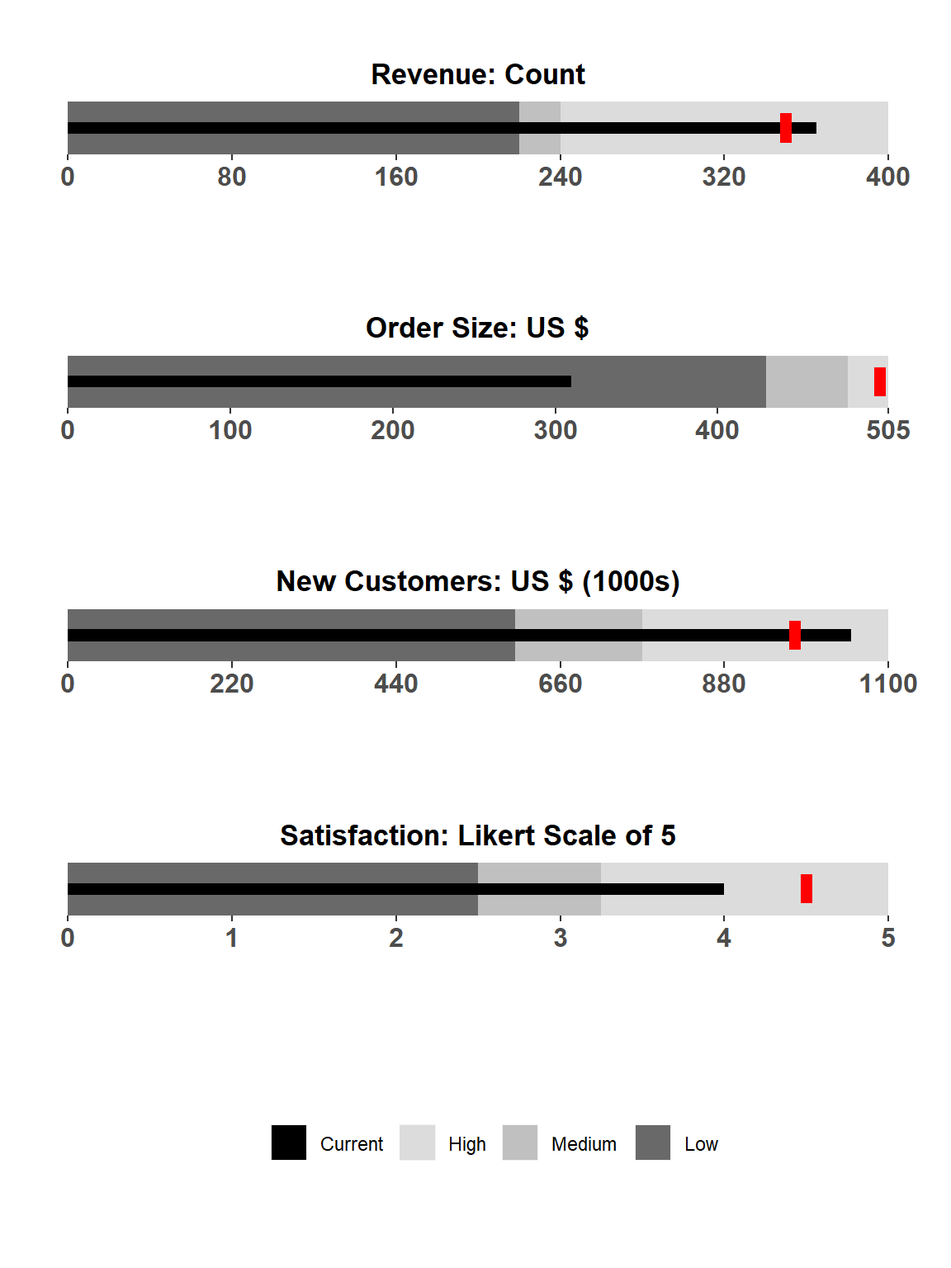
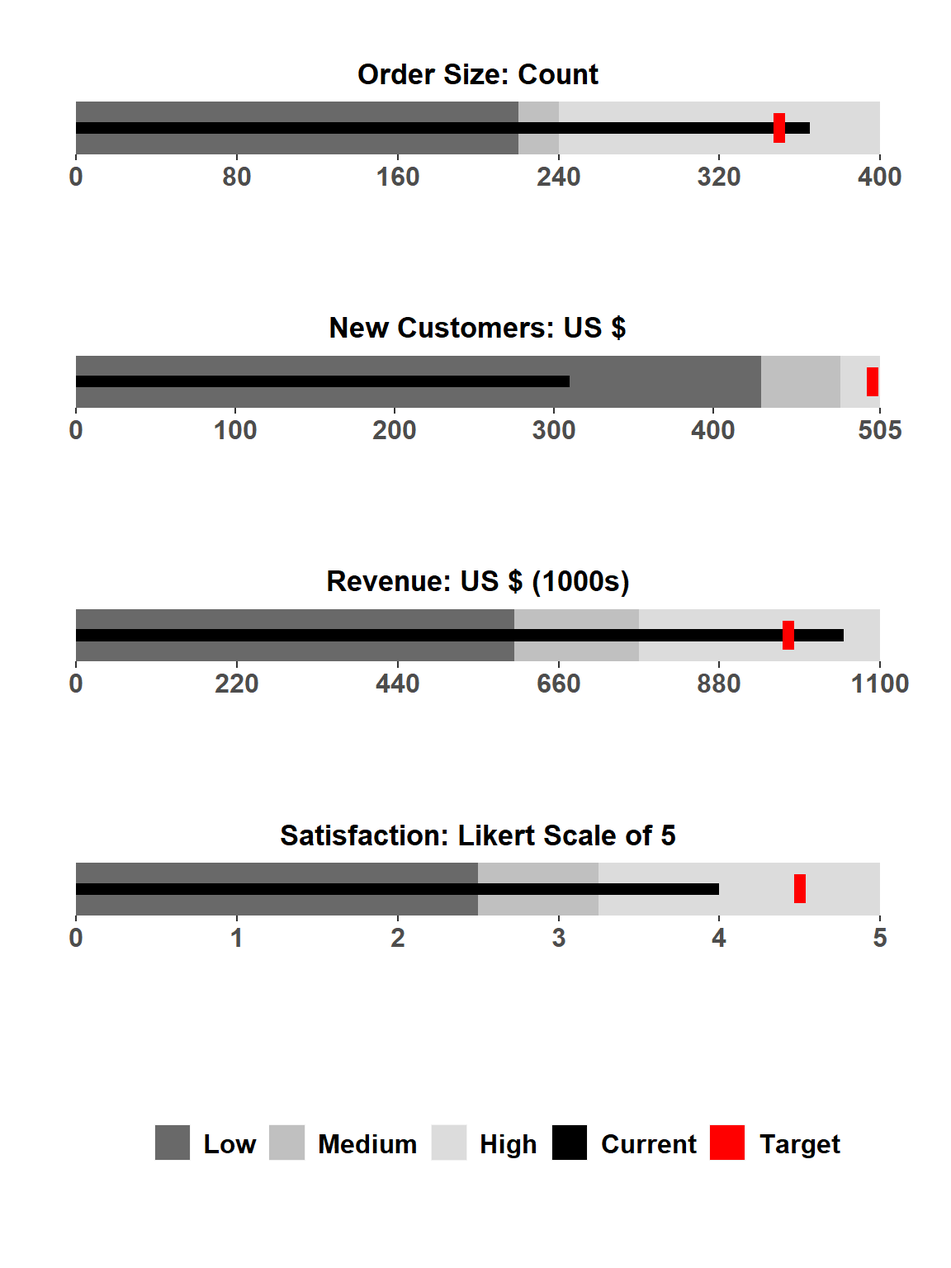
add legend entry for target, fix regular bc data, references #24

diff --git a/docs/articles/intro-arguments.html b/docs/articles/intro-arguments.html
@@ -106,7 +106,7 @@
 <div id="different-calendars" class="section level2">
 <h2 class="hasAnchor">
 <a href="#different-calendars" class="anchor"></a>Different calendars</h2>
-<p>The vertical line showing <code>Today</code> can be customized depending on whether you are measuring by a fiscal year, a calendar year, or a custom date. <code>Today</code> shown on a Fiscal Year calendar (considering that today’s physical date is 2019-10-26.) is show below:</p>
+<p>The vertical line showing <code>Today</code> can be customized depending on whether you are measuring by a fiscal year, a calendar year, or a custom date. <code>Today</code> shown on a Fiscal Year calendar (considering that today’s physical date is 2019-10-31.) is show below:</p>
 <div class="sourceCode" id="cb2"><pre class="sourceCode r"><code class="sourceCode r"><a class="sourceLine" id="cb2-1" title="1"><span class="kw"><a href="../reference/bullet_chart_symbols.html">bullet_chart_symbols</a></span>(<span class="dt">file_name =</span> <span class="kw"><a href="../reference/read_example.html">read_example</a></span>(<span class="st">"Indicators_Targets_ext.xlsx"</span>), </a>
 <a class="sourceLine" id="cb2-2" title="2">                     <span class="dt">cal_type =</span> <span class="st">"fis"</span>)</a></code></pre></div>
 <p><img src="intro-arguments_files/figure-html/cal-type-1.png" width="576"></p>
@@ -153,8 +153,8 @@
 <div class="sourceCode" id="cb8"><pre class="sourceCode r"><code class="sourceCode r"><a class="sourceLine" id="cb8-1" title="1"><span class="kw"><a href="../reference/bullet_chart_symbols.html">bullet_chart_symbols</a></span>(<span class="dt">file_name =</span> <span class="kw"><a href="../reference/read_example.html">read_example</a></span>(<span class="st">"Indicators_Targets.xlsx"</span>), </a>
 <a class="sourceLine" id="cb8-2" title="2">                     <span class="dt">legend =</span> <span class="ot">TRUE</span>,</a>
 <a class="sourceLine" id="cb8-3" title="3">                     <span class="dt">chart_type =</span> <span class="st">"interactive"</span>)</a></code></pre></div>
-<div id="htmlwidget-33c41a0cc24e038bd974" style="width:700px;height:432.632880098888px;" class="girafe html-widget"></div>
-<script type="application/json" data-for="htmlwidget-33c41a0cc24e038bd974">{"x":{"html":"<?xml version=\"1.0\" encoding=\"UTF-8\"?>\n<svg xmlns=\"http://www.w3.org/2000/svg\" xmlns:xlink=\"http://www.w3.org/1999/xlink\" id=\"svg_bc03bac1a9b20191026233830\" viewBox=\"0 0 864.00 360.00\">\n  <g>\n    <defs>\n      <clipPath id=\"cl_idbc0624256f20191026233830_1679565025\">\n        <rect x=\"0.00\" y=\"360.00\" width=\"0.00\" height=\"504.00\"/>\n      <\/clipPath>\n    <\/defs>\n    <rect x=\"0.00\" y=\"0.00\" width=\"864.00\" height=\"360.00\" id=\"1\" clip-path=\"url(#cl_idbc0624256f20191026233830_1679565025)\" fill=\"#FFFFFF\" fill-opacity=\"1\" stroke-width=\"0.75\" stroke=\"#FFFFFF\" stroke-opacity=\"1\" stroke-linejoin=\"round\" stroke-linecap=\"round\"/>\n    <defs>\n      <clipPath id=\"cl_idbc0624256f20191026233830_1679565026\">\n        <rect x=\"0.00\" y=\"0.00\" width=\"864.00\" height=\"360.00\"/>\n      <\/clipPath>\n    <\/defs>\n    <defs>\n      <clipPath id=\"cl_idbc0624256f20191026233830_1679565027\">\n        <rect x=\"69.46\" y=\"26.71\" width=\"789.06\" height=\"190.70\"/>\n      <\/clipPath>\n    <\/defs>\n    <polyline points=\"193.24,217.40 193.24,26.71\" id=\"2\" clip-path=\"url(#cl_svg_bc03bac1a9b20191026233830_1679565027)\" fill=\"none\" stroke-width=\"0.533489\" stroke=\"#EBEBEB\" stroke-opacity=\"1\" stroke-linejoin=\"round\" stroke-linecap=\"butt\"/>\n    <polyline points=\"369.05,217.40 369.05,26.71\" id=\"3\" clip-path=\"url(#cl_svg_bc03bac1a9b20191026233830_1679565027)\" fill=\"none\" stroke-width=\"0.533489\" stroke=\"#EBEBEB\" stroke-opacity=\"1\" stroke-linejoin=\"round\" stroke-linecap=\"butt\"/>\n    <polyline points=\"544.87,217.40 544.87,26.71\" id=\"4\" clip-path=\"url(#cl_svg_bc03bac1a9b20191026233830_1679565027)\" fill=\"none\" stroke-width=\"0.533489\" stroke=\"#EBEBEB\" stroke-opacity=\"1\" stroke-linejoin=\"round\" stroke-linecap=\"butt\"/>\n    <polyline points=\"720.68,217.40 720.68,26.71\" id=\"5\" clip-path=\"url(#cl_svg_bc03bac1a9b20191026233830_1679565027)\" fill=\"none\" stroke-width=\"0.533489\" stroke=\"#EBEBEB\" stroke-opacity=\"1\" stroke-linejoin=\"round\" stroke-linecap=\"butt\"/>\n    <polyline points=\"69.46,191.10 858.52,191.10\" id=\"6\" clip-path=\"url(#cl_svg_bc03bac1a9b20191026233830_1679565027)\" fill=\"none\" stroke-width=\"1.06698\" stroke=\"#EBEBEB\" stroke-opacity=\"1\" stroke-linejoin=\"round\" stroke-linecap=\"butt\"/>\n    <polyline points=\"69.46,164.80 858.52,164.80\" id=\"7\" clip-path=\"url(#cl_svg_bc03bac1a9b20191026233830_1679565027)\" fill=\"none\" stroke-width=\"1.06698\" stroke=\"#EBEBEB\" stroke-opacity=\"1\" stroke-linejoin=\"round\" stroke-linecap=\"butt\"/>\n    <polyline points=\"69.46,138.50 858.52,138.50\" id=\"8\" clip-path=\"url(#cl_svg_bc03bac1a9b20191026233830_1679565027)\" fill=\"none\" stroke-width=\"1.06698\" stroke=\"#EBEBEB\" stroke-opacity=\"1\" stroke-linejoin=\"round\" stroke-linecap=\"butt\"/>\n    <polyline points=\"69.46,112.19 858.52,112.19\" id=\"9\" clip-path=\"url(#cl_svg_bc03bac1a9b20191026233830_1679565027)\" fill=\"none\" stroke-width=\"1.06698\" stroke=\"#EBEBEB\" stroke-opacity=\"1\" stroke-linejoin=\"round\" stroke-linecap=\"butt\"/>\n    <polyline points=\"69.46,85.89 858.52,85.89\" id=\"10\" clip-path=\"url(#cl_svg_bc03bac1a9b20191026233830_1679565027)\" fill=\"none\" stroke-width=\"1.06698\" stroke=\"#EBEBEB\" stroke-opacity=\"1\" stroke-linejoin=\"round\" stroke-linecap=\"butt\"/>\n    <polyline points=\"69.46,59.59 858.52,59.59\" id=\"11\" clip-path=\"url(#cl_svg_bc03bac1a9b20191026233830_1679565027)\" fill=\"none\" stroke-width=\"1.06698\" stroke=\"#EBEBEB\" stroke-opacity=\"1\" stroke-linejoin=\"round\" stroke-linecap=\"butt\"/>\n    <polyline points=\"105.33,217.40 105.33,26.71\" id=\"12\" clip-path=\"url(#cl_svg_bc03bac1a9b20191026233830_1679565027)\" fill=\"none\" stroke-width=\"1.06698\" stroke=\"#EBEBEB\" stroke-opacity=\"1\" stroke-linejoin=\"round\" stroke-linecap=\"butt\"/>\n    <polyline points=\"281.15,217.40 281.15,26.71\" id=\"13\" clip-path=\"url(#cl_svg_bc03bac1a9b20191026233830_1679565027)\" fill=\"none\" stroke-width=\"1.06698\" stroke=\"#EBEBEB\" stroke-opacity=\"1\" stroke-linejoin=\"round\" stroke-linecap=\"butt\"/>\n    <polyline points=\"456.96,217.40 456.96,26.71\" id=\"14\" clip-path=\"url(#cl_svg_bc03bac1a9b20191026233830_1679565027)\" fill=\"none\" stroke-width=\"1.06698\" stroke=\"#EBEBEB\" stroke-opacity=\"1\" stroke-linejoin=\"round\" stroke-linecap=\"butt\"/>\n    <polyline points=\"632.77,217.40 632.77,26.71\" id=\"15\" clip-path=\"url(#cl_svg_bc03bac1a9b20191026233830_1679565027)\" fill=\"none\" stroke-width=\"1.06698\" stroke=\"#EBEBEB\" stroke-opacity=\"1\" stroke-linejoin=\"round\" stroke-linecap=\"butt\"/>\n    <polyline points=\"808.59,217.40 808.59,26.71\" id=\"16\" clip-path=\"url(#cl_svg_bc03bac1a9b20191026233830_1679565027)\" fill=\"none\" stroke-width=\"1.06698\" stroke=\"#EBEBEB\" stroke-opacity=\"1\" stroke-linejoin=\"round\" stroke-linecap=\"butt\"/>\n    <rect x=\"105.33\" y=\"184.53\" width=\"703.26\" height=\"13.15\" id=\"17\" clip-path=\"url(#cl_idbc0624256f20191026233830_1679565027)\" fill=\"#595959\" fill-opacity=\"0.25\" stroke=\"none\"/>\n    <rect x=\"105.33\" y=\"158.22\" width=\"703.26\" height=\"13.15\" id=\"18\" clip-path=\"url(#cl_idbc0624256f20191026233830_1679565027)\" fill=\"#595959\" fill-opacity=\"0.25\" stroke=\"none\"/>\n    <rect x=\"105.33\" y=\"131.92\" width=\"703.26\" height=\"13.15\" id=\"19\" clip-path=\"url(#cl_idbc0624256f20191026233830_1679565027)\" fill=\"#595959\" fill-opacity=\"0.25\" stroke=\"none\"/>\n    <rect x=\"105.33\" y=\"105.62\" width=\"703.26\" height=\"13.15\" id=\"20\" clip-path=\"url(#cl_idbc0624256f20191026233830_1679565027)\" fill=\"#595959\" fill-opacity=\"0.25\" stroke=\"none\"/>\n    <rect x=\"105.33\" y=\"79.31\" width=\"703.26\" height=\"13.15\" id=\"21\" clip-path=\"url(#cl_idbc0624256f20191026233830_1679565027)\" fill=\"#595959\" fill-opacity=\"0.25\" stroke=\"none\"/>\n    <rect x=\"105.33\" y=\"53.01\" width=\"703.26\" height=\"13.15\" id=\"22\" clip-path=\"url(#cl_idbc0624256f20191026233830_1679565027)\" fill=\"#595959\" fill-opacity=\"0.25\" stroke=\"none\"/>\n    <rect x=\"105.33\" y=\"189.13\" width=\"150.70\" height=\"3.95\" id=\"23\" clip-path=\"url(#cl_idbc0624256f20191026233830_1679565027)\" fill=\"#FF0000\" fill-opacity=\"1\" stroke-width=\"1.06698\" stroke=\"#000000\" stroke-opacity=\"1\" stroke-linejoin=\"round\" stroke-linecap=\"butt\"/>\n    <rect x=\"105.33\" y=\"162.83\" width=\"703.26\" height=\"3.95\" id=\"24\" clip-path=\"url(#cl_idbc0624256f20191026233830_1679565027)\" fill=\"#00FF00\" fill-opacity=\"1\" stroke-width=\"1.06698\" stroke=\"#000000\" stroke-opacity=\"1\" stroke-linejoin=\"round\" stroke-linecap=\"butt\"/>\n    <rect x=\"105.33\" y=\"136.52\" width=\"669.77\" height=\"3.95\" id=\"25\" clip-path=\"url(#cl_idbc0624256f20191026233830_1679565027)\" fill=\"#94D900\" fill-opacity=\"1\" stroke-width=\"1.06698\" stroke=\"#000000\" stroke-opacity=\"1\" stroke-linejoin=\"round\" stroke-linecap=\"butt\"/>\n    <rect x=\"105.33\" y=\"110.22\" width=\"3.00\" height=\"3.95\" id=\"26\" clip-path=\"url(#cl_idbc0624256f20191026233830_1679565027)\" fill=\"#FF0000\" fill-opacity=\"1\" stroke-width=\"1.06698\" stroke=\"#000000\" stroke-opacity=\"1\" stroke-linejoin=\"round\" stroke-linecap=\"butt\"/>\n    <rect x=\"105.33\" y=\"83.92\" width=\"140.65\" height=\"3.95\" id=\"27\" clip-path=\"url(#cl_idbc0624256f20191026233830_1679565027)\" fill=\"#FF0000\" fill-opacity=\"1\" stroke-width=\"1.06698\" stroke=\"#000000\" stroke-opacity=\"1\" stroke-linejoin=\"round\" stroke-linecap=\"butt\"/>\n    <rect x=\"105.33\" y=\"57.61\" width=\"351.63\" height=\"3.95\" id=\"28\" clip-path=\"url(#cl_idbc0624256f20191026233830_1679565027)\" fill=\"#FF0000\" fill-opacity=\"1\" stroke-width=\"1.06698\" stroke=\"#000000\" stroke-opacity=\"1\" stroke-linejoin=\"round\" stroke-linecap=\"butt\"/>\n    <line x1=\"808.59\" y1=\"217.40\" x2=\"808.59\" y2=\"26.71\" id=\"29\" clip-path=\"url(#cl_svg_bc03bac1a9b20191026233830_1679565027)\" stroke-width=\"1.06698\" stroke=\"#000000\" stroke-opacity=\"0.33\" stroke-linejoin=\"round\" stroke-linecap=\"butt\" fill=\"#000000\" fill-opacity=\"0.33\"/>\n    <polyline points=\"256.03,198.68 263.60,191.10 256.03,183.53 248.45,191.10 256.03,198.68\" id=\"30\" clip-path=\"url(#cl_svg_bc03bac1a9b20191026233830_1679565027)\" fill=\"none\" stroke-width=\"1.41732\" stroke=\"#000000\" stroke-opacity=\"1\" stroke-linejoin=\"round\" stroke-linecap=\"round\"/>\n    <polyline points=\"808.59,172.37 816.16,164.80 808.59,157.22 801.01,164.80 808.59,172.37\" id=\"31\" clip-path=\"url(#cl_svg_bc03bac1a9b20191026233830_1679565027)\" fill=\"none\" stroke-width=\"1.41732\" stroke=\"#000000\" stroke-opacity=\"1\" stroke-linejoin=\"round\" stroke-linecap=\"round\"/>\n    <polyline points=\"708.12,146.07 715.70,138.50 708.12,130.92 700.55,138.50 708.12,146.07\" id=\"32\" clip-path=\"url(#cl_svg_bc03bac1a9b20191026233830_1679565027)\" fill=\"none\" stroke-width=\"1.41732\" stroke=\"#000000\" stroke-opacity=\"1\" stroke-linejoin=\"round\" stroke-linecap=\"round\"/>\n    <polyline points=\"106.69,119.77 114.27,112.19 106.69,104.62 99.12,112.19 106.69,119.77\" id=\"33\" clip-path=\"url(#cl_svg_bc03bac1a9b20191026233830_1679565027)\" fill=\"none\" stroke-width=\"1.41732\" stroke=\"#000000\" stroke-opacity=\"1\" stroke-linejoin=\"round\" stroke-linecap=\"round\"/>\n    <polyline points=\"245.98,93.46 253.56,85.89 245.98,78.32 238.41,85.89 245.98,93.46\" id=\"34\" clip-path=\"url(#cl_svg_bc03bac1a9b20191026233830_1679565027)\" fill=\"none\" stroke-width=\"1.41732\" stroke=\"#000000\" stroke-opacity=\"1\" stroke-linejoin=\"round\" stroke-linecap=\"round\"/>\n    <polyline points=\"456.96,67.16 464.53,59.59 456.96,52.01 449.39,59.59 456.96,67.16\" id=\"35\" clip-path=\"url(#cl_svg_bc03bac1a9b20191026233830_1679565027)\" fill=\"none\" stroke-width=\"1.41732\" stroke=\"#000000\" stroke-opacity=\"1\" stroke-linejoin=\"round\" stroke-linecap=\"round\"/>\n    <circle cx=\"256.03\" cy=\"191.10\" r=\"4.53pt\" id=\"36\" clip-path=\"url(#cl_idbc0624256f20191026233830_1679565027)\" fill=\"none\" stroke-width=\"1.41732\" stroke=\"#000000\" stroke-opacity=\"1\" stroke-linejoin=\"round\" stroke-linecap=\"round\"/>\n    <circle cx=\"539.44\" cy=\"164.80\" r=\"4.53pt\" id=\"37\" clip-path=\"url(#cl_idbc0624256f20191026233830_1679565027)\" fill=\"none\" stroke-width=\"1.41732\" stroke=\"#000000\" stroke-opacity=\"1\" stroke-linejoin=\"round\" stroke-linecap=\"round\"/>\n    <circle cx=\"775.10\" cy=\"138.50\" r=\"4.53pt\" id=\"38\" clip-path=\"url(#cl_idbc0624256f20191026233830_1679565027)\" fill=\"none\" stroke-width=\"1.41732\" stroke=\"#000000\" stroke-opacity=\"1\" stroke-linejoin=\"round\" stroke-linecap=\"round\"/>\n    <circle cx=\"241.53\" cy=\"112.19\" r=\"4.53pt\" id=\"39\" clip-path=\"url(#cl_idbc0624256f20191026233830_1679565027)\" fill=\"none\" stroke-width=\"1.41732\" stroke=\"#000000\" stroke-opacity=\"1\" stroke-linejoin=\"round\" stroke-linecap=\"round\"/>\n    <circle cx=\"245.98\" cy=\"85.89\" r=\"4.53pt\" id=\"40\" clip-path=\"url(#cl_idbc0624256f20191026233830_1679565027)\" fill=\"none\" stroke-width=\"1.41732\" stroke=\"#000000\" stroke-opacity=\"1\" stroke-linejoin=\"round\" stroke-linecap=\"round\"/>\n    <circle cx=\"456.96\" cy=\"59.59\" r=\"4.53pt\" id=\"41\" clip-path=\"url(#cl_idbc0624256f20191026233830_1679565027)\" fill=\"none\" stroke-width=\"1.41732\" stroke=\"#000000\" stroke-opacity=\"1\" stroke-linejoin=\"round\" stroke-linecap=\"round\"/>\n    <g clip-path=\"url(#cl_idbc0624256f20191026233830_1679565027)\">\n      <text transform=\"translate(824.15,217.40) rotate(-90)\" id=\"42\" font-size=\"10.67pt\" fill=\"#000000\" fill-opacity=\"0.5\" font-family=\"Arial\">Today<\/text>\n    <\/g>\n    <g clip-path=\"url(#cl_idbc0624256f20191026233830_1679565027)\">\n      <text transform=\"translate(824.15,217.40) rotate(-90)\" id=\"43\" font-size=\"10.67pt\" fill=\"#000000\" fill-opacity=\"0.5\" font-family=\"Arial\">Today<\/text>\n    <\/g>\n    <g clip-path=\"url(#cl_idbc0624256f20191026233830_1679565027)\">\n      <text transform=\"translate(824.15,217.40) rotate(-90)\" id=\"44\" font-size=\"10.67pt\" fill=\"#000000\" fill-opacity=\"0.5\" font-family=\"Arial\">Today<\/text>\n    <\/g>\n    <g clip-path=\"url(#cl_idbc0624256f20191026233830_1679565027)\">\n      <text transform=\"translate(824.15,217.40) rotate(-90)\" id=\"45\" font-size=\"10.67pt\" fill=\"#000000\" fill-opacity=\"0.5\" font-family=\"Arial\">Today<\/text>\n    <\/g>\n    <g clip-path=\"url(#cl_idbc0624256f20191026233830_1679565027)\">\n      <text transform=\"translate(824.15,217.40) rotate(-90)\" id=\"46\" font-size=\"10.67pt\" fill=\"#000000\" fill-opacity=\"0.5\" font-family=\"Arial\">Today<\/text>\n    <\/g>\n    <g clip-path=\"url(#cl_idbc0624256f20191026233830_1679565027)\">\n      <text transform=\"translate(824.15,217.40) rotate(-90)\" id=\"47\" font-size=\"10.67pt\" fill=\"#000000\" fill-opacity=\"0.5\" font-family=\"Arial\">Today<\/text>\n    <\/g>\n    <defs>\n      <clipPath id=\"cl_idbc0624256f20191026233830_1679565028\">\n        <rect x=\"0.00\" y=\"0.00\" width=\"864.00\" height=\"360.00\"/>\n      <\/clipPath>\n    <\/defs>\n    <g clip-path=\"url(#cl_idbc0624256f20191026233830_1679565028)\">\n      <text x=\"21.19\" y=\"196.47\" id=\"48\" font-size=\"11.25pt\" font-weight=\"bold\" fill=\"#4D4D4D\" fill-opacity=\"1\" font-family=\"Arial\">Ind 04<\/text>\n    <\/g>\n    <g clip-path=\"url(#cl_idbc0624256f20191026233830_1679565028)\">\n      <text x=\"21.19\" y=\"170.17\" id=\"49\" font-size=\"11.25pt\" font-weight=\"bold\" fill=\"#4D4D4D\" fill-opacity=\"1\" font-family=\"Arial\">Ind 05<\/text>\n    <\/g>\n    <g clip-path=\"url(#cl_idbc0624256f20191026233830_1679565028)\">\n      <text x=\"21.19\" y=\"143.86\" id=\"50\" font-size=\"11.25pt\" font-weight=\"bold\" fill=\"#4D4D4D\" fill-opacity=\"1\" font-family=\"Arial\">Ind 07<\/text>\n    <\/g>\n    <g clip-path=\"url(#cl_idbc0624256f20191026233830_1679565028)\">\n      <text x=\"21.19\" y=\"117.56\" id=\"51\" font-size=\"11.25pt\" font-weight=\"bold\" fill=\"#4D4D4D\" fill-opacity=\"1\" font-family=\"Arial\">Ind 11<\/text>\n    <\/g>\n    <g clip-path=\"url(#cl_idbc0624256f20191026233830_1679565028)\">\n      <text x=\"21.19\" y=\"91.26\" id=\"52\" font-size=\"11.25pt\" font-weight=\"bold\" fill=\"#4D4D4D\" fill-opacity=\"1\" font-family=\"Arial\">Ind 17<\/text>\n    <\/g>\n    <g clip-path=\"url(#cl_idbc0624256f20191026233830_1679565028)\">\n      <text x=\"21.19\" y=\"64.95\" id=\"53\" font-size=\"11.25pt\" font-weight=\"bold\" fill=\"#4D4D4D\" fill-opacity=\"1\" font-family=\"Arial\">Ind 18<\/text>\n    <\/g>\n    <g clip-path=\"url(#cl_idbc0624256f20191026233830_1679565028)\">\n      <text x=\"101.44\" y=\"232.35\" id=\"54\" font-size=\"10.50pt\" font-weight=\"bold\" fill=\"#4D4D4D\" fill-opacity=\"1\" font-family=\"Arial\">0<\/text>\n    <\/g>\n    <g clip-path=\"url(#cl_idbc0624256f20191026233830_1679565028)\">\n      <text x=\"273.36\" y=\"232.35\" id=\"55\" font-size=\"10.50pt\" font-weight=\"bold\" fill=\"#4D4D4D\" fill-opacity=\"1\" font-family=\"Arial\">25<\/text>\n    <\/g>\n    <g clip-path=\"url(#cl_idbc0624256f20191026233830_1679565028)\">\n      <text x=\"449.17\" y=\"232.35\" id=\"56\" font-size=\"10.50pt\" font-weight=\"bold\" fill=\"#4D4D4D\" fill-opacity=\"1\" font-family=\"Arial\">50<\/text>\n    <\/g>\n    <g clip-path=\"url(#cl_idbc0624256f20191026233830_1679565028)\">\n      <text x=\"624.99\" y=\"232.35\" id=\"57\" font-size=\"10.50pt\" font-weight=\"bold\" fill=\"#4D4D4D\" fill-opacity=\"1\" font-family=\"Arial\">75<\/text>\n    <\/g>\n    <g clip-path=\"url(#cl_idbc0624256f20191026233830_1679565028)\">\n      <text x=\"796.91\" y=\"232.35\" id=\"58\" font-size=\"10.50pt\" font-weight=\"bold\" fill=\"#4D4D4D\" fill-opacity=\"1\" font-family=\"Arial\">100<\/text>\n    <\/g>\n    <g clip-path=\"url(#cl_idbc0624256f20191026233830_1679565028)\">\n      <text x=\"406.47\" y=\"267.37\" id=\"59\" font-size=\"7.50pt\" font-weight=\"bold\" font-family=\"Arial\">Percent of Yearly Target<\/text>\n    <\/g>\n    <g clip-path=\"url(#cl_idbc0624256f20191026233830_1679565028)\">\n      <text x=\"460.38\" y=\"278.17\" id=\"60\" font-size=\"7.50pt\" font-weight=\"bold\" font-family=\"Arial\">&amp;<\/text>\n    <\/g>\n    <g clip-path=\"url(#cl_idbc0624256f20191026233830_1679565028)\">\n      <text x=\"425.92\" y=\"288.97\" id=\"61\" font-size=\"7.50pt\" font-weight=\"bold\" font-family=\"Arial\"> Percent of Year<\/text>\n    <\/g>\n    <g clip-path=\"url(#cl_idbc0624256f20191026233830_1679565028)\">\n      <text transform=\"translate(15.50,124.00) rotate(-90)\" id=\"62\" font-size=\"10.50pt\" font-weight=\"bold\" font-family=\"Arial\"> <\/text>\n    <\/g>\n    <g clip-path=\"url(#cl_idbc0624256f20191026233830_1679565028)\">\n      <text x=\"385.98\" y=\"343.25\" id=\"63\" font-size=\"10.50pt\" font-weight=\"bold\" font-family=\"Arial\"> <\/text>\n    <\/g>\n    <polyline points=\"407.64,345.82 415.22,338.24 407.64,330.67 400.07,338.24 407.64,345.82\" id=\"64\" clip-path=\"url(#cl_svg_bc03bac1a9b20191026233830_1679565028)\" fill=\"none\" stroke-width=\"1.41732\" stroke=\"#000000\" stroke-opacity=\"1\" stroke-linejoin=\"round\" stroke-linecap=\"round\"/>\n    <polyline points=\"407.64,345.82 415.22,338.24 407.64,330.67 400.07,338.24 407.64,345.82\" id=\"65\" clip-path=\"url(#cl_svg_bc03bac1a9b20191026233830_1679565028)\" fill=\"none\" stroke-width=\"1.41732\" stroke=\"#000000\" stroke-opacity=\"1\" stroke-linejoin=\"round\" stroke-linecap=\"round\"/>\n    <circle cx=\"485.71\" cy=\"338.24\" r=\"4.53pt\" id=\"66\" clip-path=\"url(#cl_idbc0624256f20191026233830_1679565028)\" fill=\"none\" stroke-width=\"1.41732\" stroke=\"#000000\" stroke-opacity=\"1\" stroke-linejoin=\"round\" stroke-linecap=\"round\"/>\n    <circle cx=\"485.71\" cy=\"338.24\" r=\"4.53pt\" id=\"67\" clip-path=\"url(#cl_idbc0624256f20191026233830_1679565028)\" fill=\"none\" stroke-width=\"1.41732\" stroke=\"#000000\" stroke-opacity=\"1\" stroke-linejoin=\"round\" stroke-linecap=\"round\"/>\n    <g clip-path=\"url(#cl_idbc0624256f20191026233830_1679565028)\">\n      <text x=\"425.42\" y=\"341.46\" id=\"68\" font-size=\"6.60pt\" font-family=\"Arial\">Last Week<\/text>\n    <\/g>\n    <g clip-path=\"url(#cl_idbc0624256f20191026233830_1679565028)\">\n      <text x=\"503.48\" y=\"341.46\" id=\"69\" font-size=\"6.60pt\" font-family=\"Arial\">Last Year<\/text>\n    <\/g>\n    <g clip-path=\"url(#cl_idbc0624256f20191026233830_1679565028)\">\n      <text x=\"293.03\" y=\"17.65\" id=\"70\" font-size=\"12.60pt\" font-weight=\"bold\" font-family=\"Arial\">Ongoing Indicator Accomplishment (2019)<\/text>\n    <\/g>\n  <\/g>\n<\/svg>\n","js":"function zzz(){document.querySelectorAll('#svg_bc03bac1a9b20191026233830')[0].getElementById('23').setAttribute('title','(No change from Last Week)<br>(No change from Last Year)');document.querySelectorAll('#svg_bc03bac1a9b20191026233830')[0].getElementById('24').setAttribute('title','(+17 from Last Week)<br>(+387 from Last Year)');document.querySelectorAll('#svg_bc03bac1a9b20191026233830')[0].getElementById('25').setAttribute('title','(+2 from Last Week)<br>(No change from Last Year)');document.querySelectorAll('#svg_bc03bac1a9b20191026233830')[0].getElementById('26').setAttribute('title','(+24 from Last Week)<br>(-1956 from Last Year)');document.querySelectorAll('#svg_bc03bac1a9b20191026233830')[0].getElementById('27').setAttribute('title','(No change from Last Week)<br>(No change from Last Year)');document.querySelectorAll('#svg_bc03bac1a9b20191026233830')[0].getElementById('28').setAttribute('title','(No change from Last Week)<br>(No change from Last Year)');;document.querySelectorAll('#svg_bc03bac1a9b20191026233830')[0].getElementById('23').setAttribute('data-id','Ind 04');document.querySelectorAll('#svg_bc03bac1a9b20191026233830')[0].getElementById('24').setAttribute('data-id','Ind 05');document.querySelectorAll('#svg_bc03bac1a9b20191026233830')[0].getElementById('25').setAttribute('data-id','Ind 07');document.querySelectorAll('#svg_bc03bac1a9b20191026233830')[0].getElementById('26').setAttribute('data-id','Ind 11');document.querySelectorAll('#svg_bc03bac1a9b20191026233830')[0].getElementById('27').setAttribute('data-id','Ind 17');document.querySelectorAll('#svg_bc03bac1a9b20191026233830')[0].getElementById('28').setAttribute('data-id','Ind 18');};","uid":"svg_bc03bac1a9b20191026233830","ratio":2.4,"settings":{"tooltip":{"css":"{position:absolute;pointer-events:none;z-index:999;padding:5px;background:black;color:white;border-radius:2px 2px 2px 2px;}","offx":10,"offy":0,"use_cursor_pos":true,"opacity":0.9,"usefill":false,"usestroke":false,"delay":{"over":200,"out":500}},"hover":{"css":"{fill:orange;stroke:gray;}"},"zoom":{"min":1,"max":1},"capture":{"css":"{fill:red;stroke:gray;}","type":"multiple","only_shiny":true},"toolbar":{"position":"topright","saveaspng":true},"sizing":{"rescale":true,"width":1}}},"evals":[],"jsHooks":[]}</script>
+<div id="htmlwidget-af7d7bcb412037cec886" style="width:700px;height:432.632880098888px;" class="girafe html-widget"></div>
+<script type="application/json" data-for="htmlwidget-af7d7bcb412037cec886">{"x":{"html":"<?xml version=\"1.0\" encoding=\"UTF-8\"?>\n<svg xmlns=\"http://www.w3.org/2000/svg\" xmlns:xlink=\"http://www.w3.org/1999/xlink\" id=\"svg_ec0c2c270a720191031215700\" viewBox=\"0 0 864.00 360.00\">\n  <g>\n    <defs>\n      <clipPath id=\"cl_idec0c1c6a3b020191031215700_1679565025\">\n        <rect x=\"0.00\" y=\"360.00\" width=\"0.00\" height=\"504.00\"/>\n      <\/clipPath>\n    <\/defs>\n    <rect x=\"0.00\" y=\"0.00\" width=\"864.00\" height=\"360.00\" id=\"1\" clip-path=\"url(#cl_idec0c1c6a3b020191031215700_1679565025)\" fill=\"#FFFFFF\" fill-opacity=\"1\" stroke-width=\"0.75\" stroke=\"#FFFFFF\" stroke-opacity=\"1\" stroke-linejoin=\"round\" stroke-linecap=\"round\"/>\n    <defs>\n      <clipPath id=\"cl_idec0c1c6a3b020191031215700_1679565026\">\n        <rect x=\"0.00\" y=\"0.00\" width=\"864.00\" height=\"360.00\"/>\n      <\/clipPath>\n    <\/defs>\n    <defs>\n      <clipPath id=\"cl_idec0c1c6a3b020191031215700_1679565027\">\n        <rect x=\"69.46\" y=\"26.71\" width=\"789.06\" height=\"190.70\"/>\n      <\/clipPath>\n    <\/defs>\n    <polyline points=\"193.24,217.40 193.24,26.71\" id=\"2\" clip-path=\"url(#cl_svg_ec0c2c270a720191031215700_1679565027)\" fill=\"none\" stroke-width=\"0.533489\" stroke=\"#EBEBEB\" stroke-opacity=\"1\" stroke-linejoin=\"round\" stroke-linecap=\"butt\"/>\n    <polyline points=\"369.05,217.40 369.05,26.71\" id=\"3\" clip-path=\"url(#cl_svg_ec0c2c270a720191031215700_1679565027)\" fill=\"none\" stroke-width=\"0.533489\" stroke=\"#EBEBEB\" stroke-opacity=\"1\" stroke-linejoin=\"round\" stroke-linecap=\"butt\"/>\n    <polyline points=\"544.87,217.40 544.87,26.71\" id=\"4\" clip-path=\"url(#cl_svg_ec0c2c270a720191031215700_1679565027)\" fill=\"none\" stroke-width=\"0.533489\" stroke=\"#EBEBEB\" stroke-opacity=\"1\" stroke-linejoin=\"round\" stroke-linecap=\"butt\"/>\n    <polyline points=\"720.68,217.40 720.68,26.71\" id=\"5\" clip-path=\"url(#cl_svg_ec0c2c270a720191031215700_1679565027)\" fill=\"none\" stroke-width=\"0.533489\" stroke=\"#EBEBEB\" stroke-opacity=\"1\" stroke-linejoin=\"round\" stroke-linecap=\"butt\"/>\n    <polyline points=\"69.46,191.10 858.52,191.10\" id=\"6\" clip-path=\"url(#cl_svg_ec0c2c270a720191031215700_1679565027)\" fill=\"none\" stroke-width=\"1.06698\" stroke=\"#EBEBEB\" stroke-opacity=\"1\" stroke-linejoin=\"round\" stroke-linecap=\"butt\"/>\n    <polyline points=\"69.46,164.80 858.52,164.80\" id=\"7\" clip-path=\"url(#cl_svg_ec0c2c270a720191031215700_1679565027)\" fill=\"none\" stroke-width=\"1.06698\" stroke=\"#EBEBEB\" stroke-opacity=\"1\" stroke-linejoin=\"round\" stroke-linecap=\"butt\"/>\n    <polyline points=\"69.46,138.50 858.52,138.50\" id=\"8\" clip-path=\"url(#cl_svg_ec0c2c270a720191031215700_1679565027)\" fill=\"none\" stroke-width=\"1.06698\" stroke=\"#EBEBEB\" stroke-opacity=\"1\" stroke-linejoin=\"round\" stroke-linecap=\"butt\"/>\n    <polyline points=\"69.46,112.19 858.52,112.19\" id=\"9\" clip-path=\"url(#cl_svg_ec0c2c270a720191031215700_1679565027)\" fill=\"none\" stroke-width=\"1.06698\" stroke=\"#EBEBEB\" stroke-opacity=\"1\" stroke-linejoin=\"round\" stroke-linecap=\"butt\"/>\n    <polyline points=\"69.46,85.89 858.52,85.89\" id=\"10\" clip-path=\"url(#cl_svg_ec0c2c270a720191031215700_1679565027)\" fill=\"none\" stroke-width=\"1.06698\" stroke=\"#EBEBEB\" stroke-opacity=\"1\" stroke-linejoin=\"round\" stroke-linecap=\"butt\"/>\n    <polyline points=\"69.46,59.59 858.52,59.59\" id=\"11\" clip-path=\"url(#cl_svg_ec0c2c270a720191031215700_1679565027)\" fill=\"none\" stroke-width=\"1.06698\" stroke=\"#EBEBEB\" stroke-opacity=\"1\" stroke-linejoin=\"round\" stroke-linecap=\"butt\"/>\n    <polyline points=\"105.33,217.40 105.33,26.71\" id=\"12\" clip-path=\"url(#cl_svg_ec0c2c270a720191031215700_1679565027)\" fill=\"none\" stroke-width=\"1.06698\" stroke=\"#EBEBEB\" stroke-opacity=\"1\" stroke-linejoin=\"round\" stroke-linecap=\"butt\"/>\n    <polyline points=\"281.15,217.40 281.15,26.71\" id=\"13\" clip-path=\"url(#cl_svg_ec0c2c270a720191031215700_1679565027)\" fill=\"none\" stroke-width=\"1.06698\" stroke=\"#EBEBEB\" stroke-opacity=\"1\" stroke-linejoin=\"round\" stroke-linecap=\"butt\"/>\n    <polyline points=\"456.96,217.40 456.96,26.71\" id=\"14\" clip-path=\"url(#cl_svg_ec0c2c270a720191031215700_1679565027)\" fill=\"none\" stroke-width=\"1.06698\" stroke=\"#EBEBEB\" stroke-opacity=\"1\" stroke-linejoin=\"round\" stroke-linecap=\"butt\"/>\n    <polyline points=\"632.77,217.40 632.77,26.71\" id=\"15\" clip-path=\"url(#cl_svg_ec0c2c270a720191031215700_1679565027)\" fill=\"none\" stroke-width=\"1.06698\" stroke=\"#EBEBEB\" stroke-opacity=\"1\" stroke-linejoin=\"round\" stroke-linecap=\"butt\"/>\n    <polyline points=\"808.59,217.40 808.59,26.71\" id=\"16\" clip-path=\"url(#cl_svg_ec0c2c270a720191031215700_1679565027)\" fill=\"none\" stroke-width=\"1.06698\" stroke=\"#EBEBEB\" stroke-opacity=\"1\" stroke-linejoin=\"round\" stroke-linecap=\"butt\"/>\n    <rect x=\"105.33\" y=\"184.53\" width=\"703.26\" height=\"13.15\" id=\"17\" clip-path=\"url(#cl_idec0c1c6a3b020191031215700_1679565027)\" fill=\"#595959\" fill-opacity=\"0.25\" stroke=\"none\"/>\n    <rect x=\"105.33\" y=\"158.22\" width=\"703.26\" height=\"13.15\" id=\"18\" clip-path=\"url(#cl_idec0c1c6a3b020191031215700_1679565027)\" fill=\"#595959\" fill-opacity=\"0.25\" stroke=\"none\"/>\n    <rect x=\"105.33\" y=\"131.92\" width=\"703.26\" height=\"13.15\" id=\"19\" clip-path=\"url(#cl_idec0c1c6a3b020191031215700_1679565027)\" fill=\"#595959\" fill-opacity=\"0.25\" stroke=\"none\"/>\n    <rect x=\"105.33\" y=\"105.62\" width=\"703.26\" height=\"13.15\" id=\"20\" clip-path=\"url(#cl_idec0c1c6a3b020191031215700_1679565027)\" fill=\"#595959\" fill-opacity=\"0.25\" stroke=\"none\"/>\n    <rect x=\"105.33\" y=\"79.31\" width=\"703.26\" height=\"13.15\" id=\"21\" clip-path=\"url(#cl_idec0c1c6a3b020191031215700_1679565027)\" fill=\"#595959\" fill-opacity=\"0.25\" stroke=\"none\"/>\n    <rect x=\"105.33\" y=\"53.01\" width=\"703.26\" height=\"13.15\" id=\"22\" clip-path=\"url(#cl_idec0c1c6a3b020191031215700_1679565027)\" fill=\"#595959\" fill-opacity=\"0.25\" stroke=\"none\"/>\n    <rect x=\"105.33\" y=\"189.13\" width=\"150.70\" height=\"3.95\" id=\"23\" clip-path=\"url(#cl_idec0c1c6a3b020191031215700_1679565027)\" fill=\"#FF0000\" fill-opacity=\"1\" stroke-width=\"1.06698\" stroke=\"#000000\" stroke-opacity=\"1\" stroke-linejoin=\"round\" stroke-linecap=\"butt\"/>\n    <rect x=\"105.33\" y=\"162.83\" width=\"703.26\" height=\"3.95\" id=\"24\" clip-path=\"url(#cl_idec0c1c6a3b020191031215700_1679565027)\" fill=\"#00FF00\" fill-opacity=\"1\" stroke-width=\"1.06698\" stroke=\"#000000\" stroke-opacity=\"1\" stroke-linejoin=\"round\" stroke-linecap=\"butt\"/>\n    <rect x=\"105.33\" y=\"136.52\" width=\"669.77\" height=\"3.95\" id=\"25\" clip-path=\"url(#cl_idec0c1c6a3b020191031215700_1679565027)\" fill=\"#94D900\" fill-opacity=\"1\" stroke-width=\"1.06698\" stroke=\"#000000\" stroke-opacity=\"1\" stroke-linejoin=\"round\" stroke-linecap=\"butt\"/>\n    <rect x=\"105.33\" y=\"110.22\" width=\"3.00\" height=\"3.95\" id=\"26\" clip-path=\"url(#cl_idec0c1c6a3b020191031215700_1679565027)\" fill=\"#FF0000\" fill-opacity=\"1\" stroke-width=\"1.06698\" stroke=\"#000000\" stroke-opacity=\"1\" stroke-linejoin=\"round\" stroke-linecap=\"butt\"/>\n    <rect x=\"105.33\" y=\"83.92\" width=\"140.65\" height=\"3.95\" id=\"27\" clip-path=\"url(#cl_idec0c1c6a3b020191031215700_1679565027)\" fill=\"#FF0000\" fill-opacity=\"1\" stroke-width=\"1.06698\" stroke=\"#000000\" stroke-opacity=\"1\" stroke-linejoin=\"round\" stroke-linecap=\"butt\"/>\n    <rect x=\"105.33\" y=\"57.61\" width=\"351.63\" height=\"3.95\" id=\"28\" clip-path=\"url(#cl_idec0c1c6a3b020191031215700_1679565027)\" fill=\"#FF0000\" fill-opacity=\"1\" stroke-width=\"1.06698\" stroke=\"#000000\" stroke-opacity=\"1\" stroke-linejoin=\"round\" stroke-linecap=\"butt\"/>\n    <line x1=\"808.59\" y1=\"217.40\" x2=\"808.59\" y2=\"26.71\" id=\"29\" clip-path=\"url(#cl_svg_ec0c2c270a720191031215700_1679565027)\" stroke-width=\"1.06698\" stroke=\"#000000\" stroke-opacity=\"0.33\" stroke-linejoin=\"round\" stroke-linecap=\"butt\" fill=\"#000000\" fill-opacity=\"0.33\"/>\n    <polyline points=\"256.03,198.68 263.60,191.10 256.03,183.53 248.45,191.10 256.03,198.68\" id=\"30\" clip-path=\"url(#cl_svg_ec0c2c270a720191031215700_1679565027)\" fill=\"none\" stroke-width=\"1.41732\" stroke=\"#000000\" stroke-opacity=\"1\" stroke-linejoin=\"round\" stroke-linecap=\"round\"/>\n    <polyline points=\"808.59,172.37 816.16,164.80 808.59,157.22 801.01,164.80 808.59,172.37\" id=\"31\" clip-path=\"url(#cl_svg_ec0c2c270a720191031215700_1679565027)\" fill=\"none\" stroke-width=\"1.41732\" stroke=\"#000000\" stroke-opacity=\"1\" stroke-linejoin=\"round\" stroke-linecap=\"round\"/>\n    <polyline points=\"708.12,146.07 715.70,138.50 708.12,130.92 700.55,138.50 708.12,146.07\" id=\"32\" clip-path=\"url(#cl_svg_ec0c2c270a720191031215700_1679565027)\" fill=\"none\" stroke-width=\"1.41732\" stroke=\"#000000\" stroke-opacity=\"1\" stroke-linejoin=\"round\" stroke-linecap=\"round\"/>\n    <polyline points=\"106.69,119.77 114.27,112.19 106.69,104.62 99.12,112.19 106.69,119.77\" id=\"33\" clip-path=\"url(#cl_svg_ec0c2c270a720191031215700_1679565027)\" fill=\"none\" stroke-width=\"1.41732\" stroke=\"#000000\" stroke-opacity=\"1\" stroke-linejoin=\"round\" stroke-linecap=\"round\"/>\n    <polyline points=\"245.98,93.46 253.56,85.89 245.98,78.32 238.41,85.89 245.98,93.46\" id=\"34\" clip-path=\"url(#cl_svg_ec0c2c270a720191031215700_1679565027)\" fill=\"none\" stroke-width=\"1.41732\" stroke=\"#000000\" stroke-opacity=\"1\" stroke-linejoin=\"round\" stroke-linecap=\"round\"/>\n    <polyline points=\"456.96,67.16 464.53,59.59 456.96,52.01 449.39,59.59 456.96,67.16\" id=\"35\" clip-path=\"url(#cl_svg_ec0c2c270a720191031215700_1679565027)\" fill=\"none\" stroke-width=\"1.41732\" stroke=\"#000000\" stroke-opacity=\"1\" stroke-linejoin=\"round\" stroke-linecap=\"round\"/>\n    <circle cx=\"256.03\" cy=\"191.10\" r=\"4.53pt\" id=\"36\" clip-path=\"url(#cl_idec0c1c6a3b020191031215700_1679565027)\" fill=\"none\" stroke-width=\"1.41732\" stroke=\"#000000\" stroke-opacity=\"1\" stroke-linejoin=\"round\" stroke-linecap=\"round\"/>\n    <circle cx=\"539.44\" cy=\"164.80\" r=\"4.53pt\" id=\"37\" clip-path=\"url(#cl_idec0c1c6a3b020191031215700_1679565027)\" fill=\"none\" stroke-width=\"1.41732\" stroke=\"#000000\" stroke-opacity=\"1\" stroke-linejoin=\"round\" stroke-linecap=\"round\"/>\n    <circle cx=\"775.10\" cy=\"138.50\" r=\"4.53pt\" id=\"38\" clip-path=\"url(#cl_idec0c1c6a3b020191031215700_1679565027)\" fill=\"none\" stroke-width=\"1.41732\" stroke=\"#000000\" stroke-opacity=\"1\" stroke-linejoin=\"round\" stroke-linecap=\"round\"/>\n    <circle cx=\"241.53\" cy=\"112.19\" r=\"4.53pt\" id=\"39\" clip-path=\"url(#cl_idec0c1c6a3b020191031215700_1679565027)\" fill=\"none\" stroke-width=\"1.41732\" stroke=\"#000000\" stroke-opacity=\"1\" stroke-linejoin=\"round\" stroke-linecap=\"round\"/>\n    <circle cx=\"245.98\" cy=\"85.89\" r=\"4.53pt\" id=\"40\" clip-path=\"url(#cl_idec0c1c6a3b020191031215700_1679565027)\" fill=\"none\" stroke-width=\"1.41732\" stroke=\"#000000\" stroke-opacity=\"1\" stroke-linejoin=\"round\" stroke-linecap=\"round\"/>\n    <circle cx=\"456.96\" cy=\"59.59\" r=\"4.53pt\" id=\"41\" clip-path=\"url(#cl_idec0c1c6a3b020191031215700_1679565027)\" fill=\"none\" stroke-width=\"1.41732\" stroke=\"#000000\" stroke-opacity=\"1\" stroke-linejoin=\"round\" stroke-linecap=\"round\"/>\n    <g clip-path=\"url(#cl_idec0c1c6a3b020191031215700_1679565027)\">\n      <text transform=\"translate(824.15,217.40) rotate(-90)\" id=\"42\" font-size=\"10.67pt\" fill=\"#000000\" fill-opacity=\"0.5\" font-family=\"Arial\">Today<\/text>\n    <\/g>\n    <g clip-path=\"url(#cl_idec0c1c6a3b020191031215700_1679565027)\">\n      <text transform=\"translate(824.15,217.40) rotate(-90)\" id=\"43\" font-size=\"10.67pt\" fill=\"#000000\" fill-opacity=\"0.5\" font-family=\"Arial\">Today<\/text>\n    <\/g>\n    <g clip-path=\"url(#cl_idec0c1c6a3b020191031215700_1679565027)\">\n      <text transform=\"translate(824.15,217.40) rotate(-90)\" id=\"44\" font-size=\"10.67pt\" fill=\"#000000\" fill-opacity=\"0.5\" font-family=\"Arial\">Today<\/text>\n    <\/g>\n    <g clip-path=\"url(#cl_idec0c1c6a3b020191031215700_1679565027)\">\n      <text transform=\"translate(824.15,217.40) rotate(-90)\" id=\"45\" font-size=\"10.67pt\" fill=\"#000000\" fill-opacity=\"0.5\" font-family=\"Arial\">Today<\/text>\n    <\/g>\n    <g clip-path=\"url(#cl_idec0c1c6a3b020191031215700_1679565027)\">\n      <text transform=\"translate(824.15,217.40) rotate(-90)\" id=\"46\" font-size=\"10.67pt\" fill=\"#000000\" fill-opacity=\"0.5\" font-family=\"Arial\">Today<\/text>\n    <\/g>\n    <g clip-path=\"url(#cl_idec0c1c6a3b020191031215700_1679565027)\">\n      <text transform=\"translate(824.15,217.40) rotate(-90)\" id=\"47\" font-size=\"10.67pt\" fill=\"#000000\" fill-opacity=\"0.5\" font-family=\"Arial\">Today<\/text>\n    <\/g>\n    <defs>\n      <clipPath id=\"cl_idec0c1c6a3b020191031215700_1679565028\">\n        <rect x=\"0.00\" y=\"0.00\" width=\"864.00\" height=\"360.00\"/>\n      <\/clipPath>\n    <\/defs>\n    <g clip-path=\"url(#cl_idec0c1c6a3b020191031215700_1679565028)\">\n      <text x=\"21.19\" y=\"196.47\" id=\"48\" font-size=\"11.25pt\" font-weight=\"bold\" fill=\"#4D4D4D\" fill-opacity=\"1\" font-family=\"Arial\">Ind 04<\/text>\n    <\/g>\n    <g clip-path=\"url(#cl_idec0c1c6a3b020191031215700_1679565028)\">\n      <text x=\"21.19\" y=\"170.17\" id=\"49\" font-size=\"11.25pt\" font-weight=\"bold\" fill=\"#4D4D4D\" fill-opacity=\"1\" font-family=\"Arial\">Ind 05<\/text>\n    <\/g>\n    <g clip-path=\"url(#cl_idec0c1c6a3b020191031215700_1679565028)\">\n      <text x=\"21.19\" y=\"143.86\" id=\"50\" font-size=\"11.25pt\" font-weight=\"bold\" fill=\"#4D4D4D\" fill-opacity=\"1\" font-family=\"Arial\">Ind 07<\/text>\n    <\/g>\n    <g clip-path=\"url(#cl_idec0c1c6a3b020191031215700_1679565028)\">\n      <text x=\"21.19\" y=\"117.56\" id=\"51\" font-size=\"11.25pt\" font-weight=\"bold\" fill=\"#4D4D4D\" fill-opacity=\"1\" font-family=\"Arial\">Ind 11<\/text>\n    <\/g>\n    <g clip-path=\"url(#cl_idec0c1c6a3b020191031215700_1679565028)\">\n      <text x=\"21.19\" y=\"91.26\" id=\"52\" font-size=\"11.25pt\" font-weight=\"bold\" fill=\"#4D4D4D\" fill-opacity=\"1\" font-family=\"Arial\">Ind 17<\/text>\n    <\/g>\n    <g clip-path=\"url(#cl_idec0c1c6a3b020191031215700_1679565028)\">\n      <text x=\"21.19\" y=\"64.95\" id=\"53\" font-size=\"11.25pt\" font-weight=\"bold\" fill=\"#4D4D4D\" fill-opacity=\"1\" font-family=\"Arial\">Ind 18<\/text>\n    <\/g>\n    <g clip-path=\"url(#cl_idec0c1c6a3b020191031215700_1679565028)\">\n      <text x=\"101.44\" y=\"232.35\" id=\"54\" font-size=\"10.50pt\" font-weight=\"bold\" fill=\"#4D4D4D\" fill-opacity=\"1\" font-family=\"Arial\">0<\/text>\n    <\/g>\n    <g clip-path=\"url(#cl_idec0c1c6a3b020191031215700_1679565028)\">\n      <text x=\"273.36\" y=\"232.35\" id=\"55\" font-size=\"10.50pt\" font-weight=\"bold\" fill=\"#4D4D4D\" fill-opacity=\"1\" font-family=\"Arial\">25<\/text>\n    <\/g>\n    <g clip-path=\"url(#cl_idec0c1c6a3b020191031215700_1679565028)\">\n      <text x=\"449.17\" y=\"232.35\" id=\"56\" font-size=\"10.50pt\" font-weight=\"bold\" fill=\"#4D4D4D\" fill-opacity=\"1\" font-family=\"Arial\">50<\/text>\n    <\/g>\n    <g clip-path=\"url(#cl_idec0c1c6a3b020191031215700_1679565028)\">\n      <text x=\"624.99\" y=\"232.35\" id=\"57\" font-size=\"10.50pt\" font-weight=\"bold\" fill=\"#4D4D4D\" fill-opacity=\"1\" font-family=\"Arial\">75<\/text>\n    <\/g>\n    <g clip-path=\"url(#cl_idec0c1c6a3b020191031215700_1679565028)\">\n      <text x=\"796.91\" y=\"232.35\" id=\"58\" font-size=\"10.50pt\" font-weight=\"bold\" fill=\"#4D4D4D\" fill-opacity=\"1\" font-family=\"Arial\">100<\/text>\n    <\/g>\n    <g clip-path=\"url(#cl_idec0c1c6a3b020191031215700_1679565028)\">\n      <text x=\"406.47\" y=\"267.37\" id=\"59\" font-size=\"7.50pt\" font-weight=\"bold\" font-family=\"Arial\">Percent of Yearly Target<\/text>\n    <\/g>\n    <g clip-path=\"url(#cl_idec0c1c6a3b020191031215700_1679565028)\">\n      <text x=\"460.38\" y=\"278.17\" id=\"60\" font-size=\"7.50pt\" font-weight=\"bold\" font-family=\"Arial\">&amp;<\/text>\n    <\/g>\n    <g clip-path=\"url(#cl_idec0c1c6a3b020191031215700_1679565028)\">\n      <text x=\"425.92\" y=\"288.97\" id=\"61\" font-size=\"7.50pt\" font-weight=\"bold\" font-family=\"Arial\"> Percent of Year<\/text>\n    <\/g>\n    <g clip-path=\"url(#cl_idec0c1c6a3b020191031215700_1679565028)\">\n      <text transform=\"translate(15.50,124.00) rotate(-90)\" id=\"62\" font-size=\"10.50pt\" font-weight=\"bold\" font-family=\"Arial\"> <\/text>\n    <\/g>\n    <g clip-path=\"url(#cl_idec0c1c6a3b020191031215700_1679565028)\">\n      <text x=\"385.98\" y=\"343.25\" id=\"63\" font-size=\"10.50pt\" font-weight=\"bold\" font-family=\"Arial\"> <\/text>\n    <\/g>\n    <polyline points=\"407.64,345.82 415.22,338.24 407.64,330.67 400.07,338.24 407.64,345.82\" id=\"64\" clip-path=\"url(#cl_svg_ec0c2c270a720191031215700_1679565028)\" fill=\"none\" stroke-width=\"1.41732\" stroke=\"#000000\" stroke-opacity=\"1\" stroke-linejoin=\"round\" stroke-linecap=\"round\"/>\n    <polyline points=\"407.64,345.82 415.22,338.24 407.64,330.67 400.07,338.24 407.64,345.82\" id=\"65\" clip-path=\"url(#cl_svg_ec0c2c270a720191031215700_1679565028)\" fill=\"none\" stroke-width=\"1.41732\" stroke=\"#000000\" stroke-opacity=\"1\" stroke-linejoin=\"round\" stroke-linecap=\"round\"/>\n    <circle cx=\"485.71\" cy=\"338.24\" r=\"4.53pt\" id=\"66\" clip-path=\"url(#cl_idec0c1c6a3b020191031215700_1679565028)\" fill=\"none\" stroke-width=\"1.41732\" stroke=\"#000000\" stroke-opacity=\"1\" stroke-linejoin=\"round\" stroke-linecap=\"round\"/>\n    <circle cx=\"485.71\" cy=\"338.24\" r=\"4.53pt\" id=\"67\" clip-path=\"url(#cl_idec0c1c6a3b020191031215700_1679565028)\" fill=\"none\" stroke-width=\"1.41732\" stroke=\"#000000\" stroke-opacity=\"1\" stroke-linejoin=\"round\" stroke-linecap=\"round\"/>\n    <g clip-path=\"url(#cl_idec0c1c6a3b020191031215700_1679565028)\">\n      <text x=\"425.42\" y=\"341.46\" id=\"68\" font-size=\"6.60pt\" font-family=\"Arial\">Last Week<\/text>\n    <\/g>\n    <g clip-path=\"url(#cl_idec0c1c6a3b020191031215700_1679565028)\">\n      <text x=\"503.48\" y=\"341.46\" id=\"69\" font-size=\"6.60pt\" font-family=\"Arial\">Last Year<\/text>\n    <\/g>\n    <g clip-path=\"url(#cl_idec0c1c6a3b020191031215700_1679565028)\">\n      <text x=\"293.03\" y=\"17.65\" id=\"70\" font-size=\"12.60pt\" font-weight=\"bold\" font-family=\"Arial\">Ongoing Indicator Accomplishment (2019)<\/text>\n    <\/g>\n  <\/g>\n<\/svg>\n","js":"function zzz(){document.querySelectorAll('#svg_ec0c2c270a720191031215700')[0].getElementById('23').setAttribute('title','(No change from Last Week)<br>(No change from Last Year)');document.querySelectorAll('#svg_ec0c2c270a720191031215700')[0].getElementById('24').setAttribute('title','(+17 from Last Week)<br>(+387 from Last Year)');document.querySelectorAll('#svg_ec0c2c270a720191031215700')[0].getElementById('25').setAttribute('title','(+2 from Last Week)<br>(No change from Last Year)');document.querySelectorAll('#svg_ec0c2c270a720191031215700')[0].getElementById('26').setAttribute('title','(+24 from Last Week)<br>(-1956 from Last Year)');document.querySelectorAll('#svg_ec0c2c270a720191031215700')[0].getElementById('27').setAttribute('title','(No change from Last Week)<br>(No change from Last Year)');document.querySelectorAll('#svg_ec0c2c270a720191031215700')[0].getElementById('28').setAttribute('title','(No change from Last Week)<br>(No change from Last Year)');;document.querySelectorAll('#svg_ec0c2c270a720191031215700')[0].getElementById('23').setAttribute('data-id','Ind 04');document.querySelectorAll('#svg_ec0c2c270a720191031215700')[0].getElementById('24').setAttribute('data-id','Ind 05');document.querySelectorAll('#svg_ec0c2c270a720191031215700')[0].getElementById('25').setAttribute('data-id','Ind 07');document.querySelectorAll('#svg_ec0c2c270a720191031215700')[0].getElementById('26').setAttribute('data-id','Ind 11');document.querySelectorAll('#svg_ec0c2c270a720191031215700')[0].getElementById('27').setAttribute('data-id','Ind 17');document.querySelectorAll('#svg_ec0c2c270a720191031215700')[0].getElementById('28').setAttribute('data-id','Ind 18');};","uid":"svg_ec0c2c270a720191031215700","ratio":2.4,"settings":{"tooltip":{"css":"{position:absolute;pointer-events:none;z-index:999;padding:5px;background:black;color:white;border-radius:2px 2px 2px 2px;}","offx":10,"offy":0,"use_cursor_pos":true,"opacity":0.9,"usefill":false,"usestroke":false,"delay":{"over":200,"out":500}},"hover":{"css":"{fill:orange;stroke:gray;}"},"zoom":{"min":1,"max":1},"capture":{"css":"{fill:red;stroke:gray;}","type":"multiple","only_shiny":true},"toolbar":{"position":"topright","saveaspng":true},"sizing":{"rescale":true,"width":1}}},"evals":[],"jsHooks":[]}</script>
 </div>
 </div>
   </div>

diff --git a/docs/reference/bullet_chart.html b/docs/reference/bullet_chart.html
@@ -210,7 +210,7 @@ Default: 'variable'</p></td>
 
     <h2 class="hasAnchor" id="examples"><a class="anchor" href="#examples"></a>Examples</h2>
     <pre class="examples"><div class='input'><span class='fu'><a href='https://rdrr.io/r/utils/data.html'>data</a></span>(<span class='st'>"bc_ex"</span>)
-<span class='fu'>bullet_chart</span>(<span class='kw'>dataframe</span> <span class='kw'>=</span> <span class='no'>bc_ex</span>)</div><div class='img'><img src='bullet_chart-1.png' alt='' width='700' height='433' /></div></pre>
+<span class='fu'>bullet_chart</span>(<span class='kw'>dataframe</span> <span class='kw'>=</span> <span class='no'>bc_ex</span>)</div><div class='output co'>#&gt; <span class='warning'>Warning: Ignoring unknown aesthetics: fill</span></div><div class='output co'>#&gt; <span class='warning'>Warning: Ignoring unknown aesthetics: fill</span></div><div class='output co'>#&gt; <span class='warning'>Warning: Ignoring unknown aesthetics: fill</span></div><div class='output co'>#&gt; <span class='warning'>Warning: Ignoring unknown aesthetics: fill</span></div><div class='img'><img src='bullet_chart-1.png' alt='' width='700' height='433' /></div></pre>
   </div>
   <div class="col-md-3 hidden-xs hidden-sm" id="sidebar">
     <h2>Contents</h2>

diff --git a/docs/reference/read_example.html b/docs/reference/read_example.html
@@ -156,7 +156,7 @@ directory. This function make them easy to access. Taken from 'readr' package.</
     <h2 class="hasAnchor" id="examples"><a class="anchor" href="#examples"></a>Examples</h2>
     <pre class="examples"><div class='input'><span class='fu'>read_example</span>()</div><div class='output co'>#&gt; [1] "bc_ex.rda"                    "bc_ex_TC.rda"                
 #&gt; [3] "Indicators_Targets.xlsx"      "Indicators_Targets_ext.xlsx" 
-#&gt; [5] "Indicators_Targets_full.xlsx" "test.xlsx"                   </div><div class='input'><span class='fu'>read_example</span>(<span class='st'>"Indicators_Targets.xlsx"</span>)</div><div class='output co'>#&gt; [1] "C:/Users/Ryo Nakagawara/AppData/Local/Temp/RtmpgvtaCe/temp_libpathce864c046f5/bulletchartr/extdata/Indicators_Targets.xlsx"</div></pre>
+#&gt; [5] "Indicators_Targets_full.xlsx" "test.xlsx"                   </div><div class='input'><span class='fu'>read_example</span>(<span class='st'>"Indicators_Targets.xlsx"</span>)</div><div class='output co'>#&gt; [1] "C:/Users/Ryo Nakagawara/AppData/Local/Temp/RtmpojDX9q/temp_libpath66786d3027b7/bulletchartr/extdata/Indicators_Targets.xlsx"</div></pre>
   </div>
   <div class="col-md-3 hidden-xs hidden-sm" id="sidebar">
     <h2>Contents</h2>
